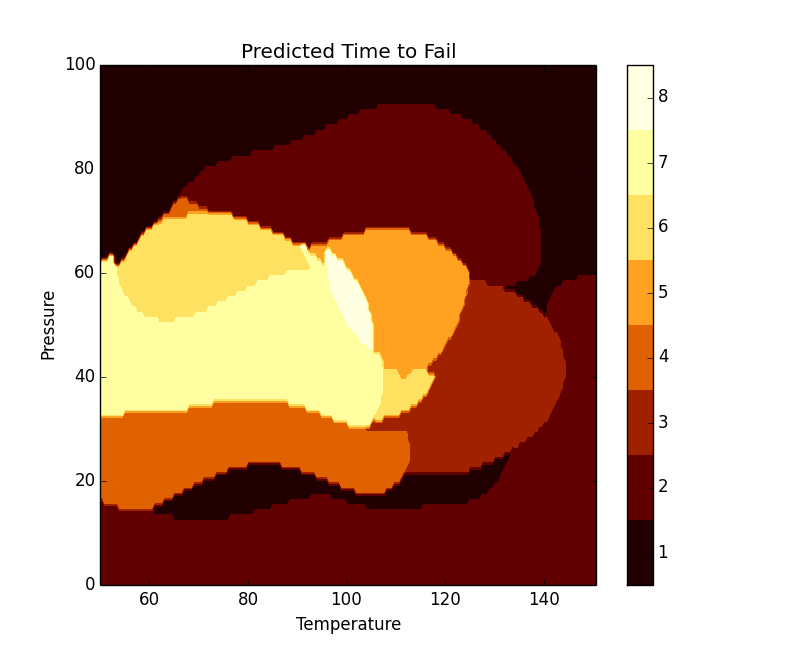
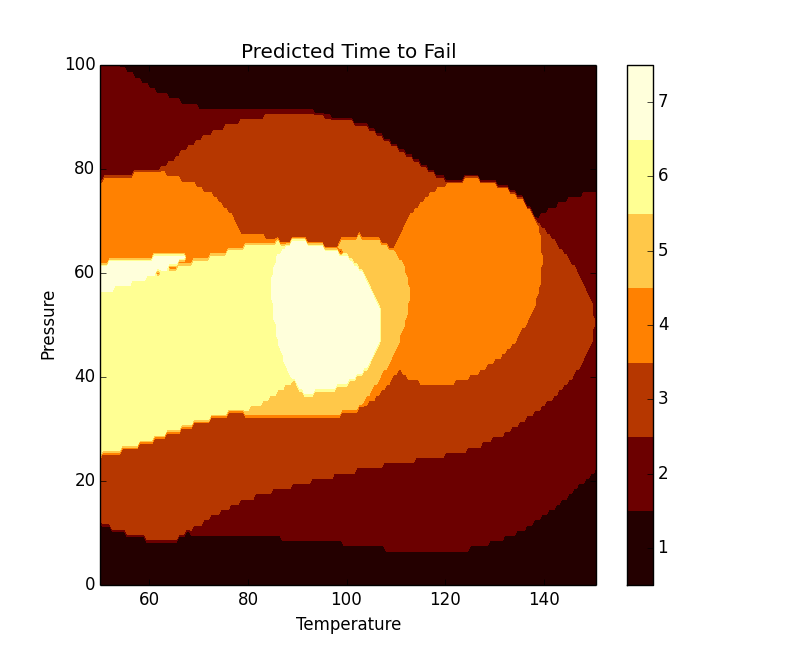
200 motors

diff --git a/source/helper_functions.py b/source/helper_functions.py
@@ -144,13 +144,13 @@ def plot_results(motors, xy_train, operating_earnings, maintenance_cost, repair_
         alpha=0.7, label='expenses')
     ax.add_patch(matplotlib.patches.Rectangle(
         (0,0), run_interval, ax.get_ylim()[1], color='lightsalmon', alpha=0.35))
-    ax.annotate('run-to-fail', xy=(19, 52), verticalalignment='top')                
+    ax.annotate('run-to-fail', xy=(19, 111), verticalalignment='top')                
     ax.add_patch(matplotlib.patches.Rectangle(
         (run_interval, 0), run_interval, ax.get_ylim()[1], color='gold', alpha=0.35))
-    ax.annotate('scheduled\nmaintenance', xy=(219, 52), verticalalignment='top')                
+    ax.annotate('scheduled\nmaintenance', xy=(219, 111), verticalalignment='top')                
     ax.add_patch(matplotlib.patches.Rectangle(
         (2*run_interval, 0), 4*run_interval, ax.get_ylim()[1], color='darkseagreen', alpha=0.35))
-    ax.annotate('predictive\nmaintenance', xy=(419, 52), verticalalignment='top')                
+    ax.annotate('predictive\nmaintenance', xy=(419, 111), verticalalignment='top')                
     ax.grid(True, linestyle=':', alpha=0.3)
     ax.legend(loc='lower right', fontsize='small')
     #

diff --git a/source/smart_maint.py b/source/smart_maint.py
@@ -13,7 +13,7 @@ import matplotlib.pyplot as plt
 from pylab import *
 
 #motor parameters
-N_motors = 50#100
+N_motors = 200
 ran_num_seed = 1
 
 #maintenance & repair parameters
